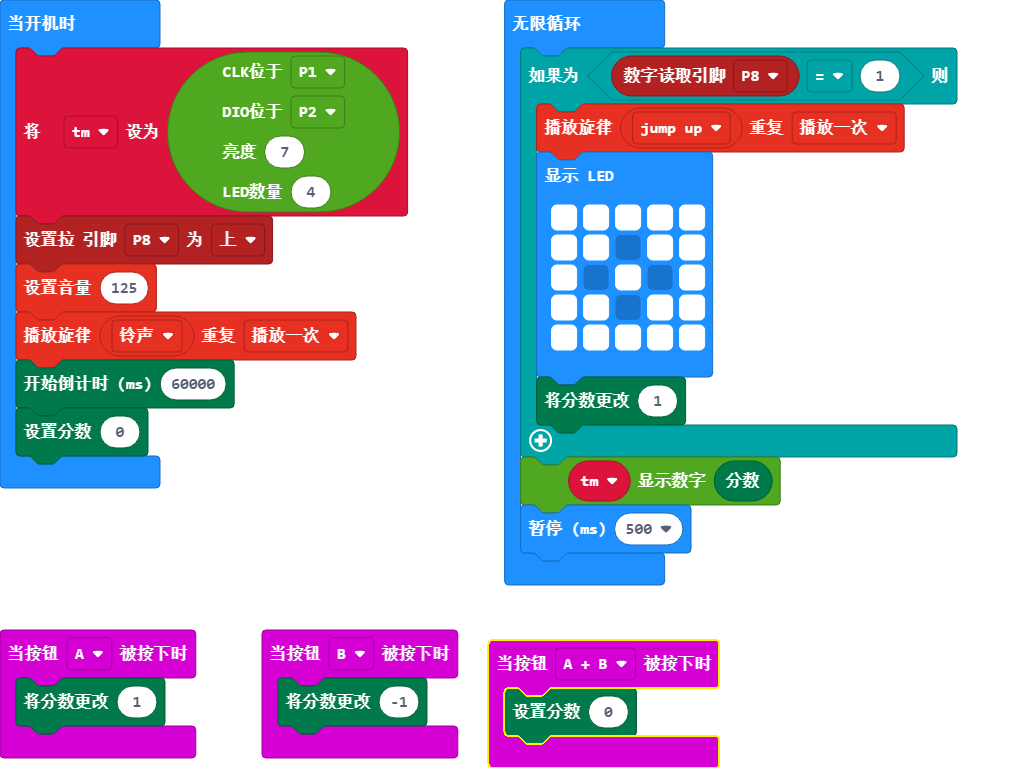
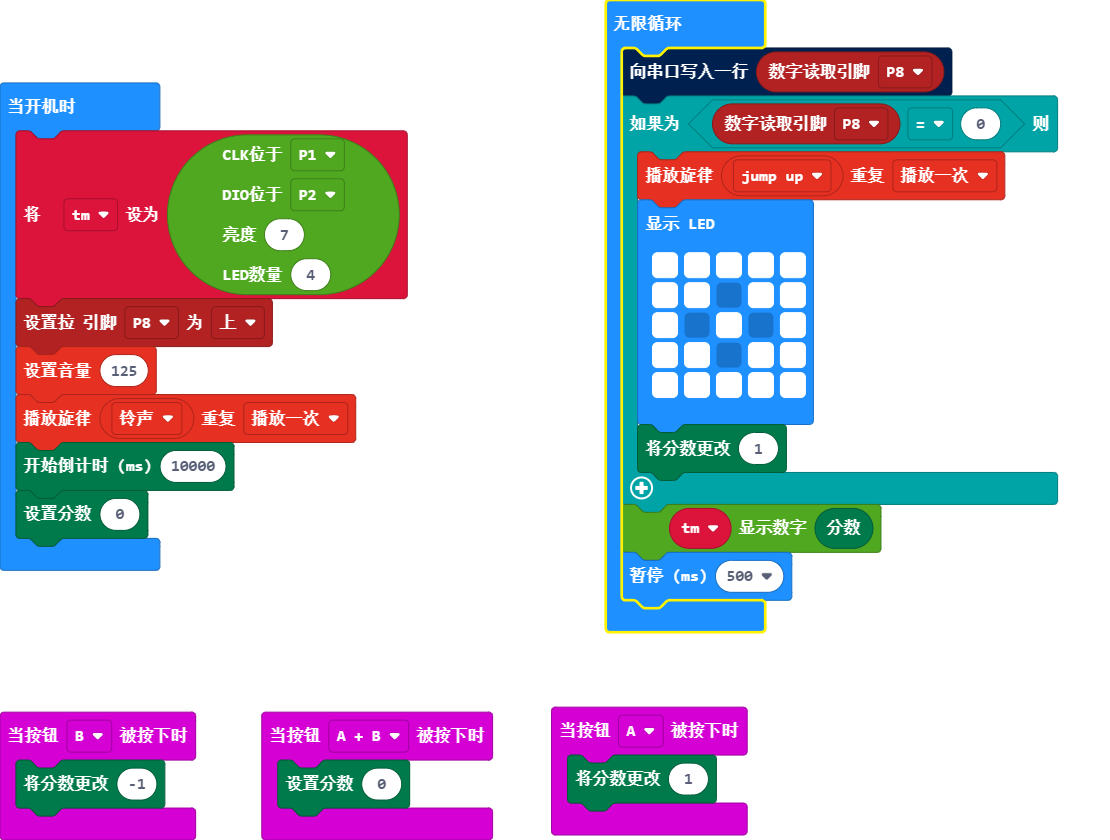
更新 main.blocks, main.ts

diff --git a/main.ts b/main.ts
@@ -16,10 +16,11 @@ DigitalPin.P2,
 pins.setPull(DigitalPin.P8, PinPullMode.PullUp)
 music.setVolume(125)
 music.startMelody(music.builtInMelody(Melodies.Ringtone), MelodyOptions.Once)
-game.startCountdown(60000)
+game.startCountdown(10000)
 game.setScore(0)
 basic.forever(function () {
-    if (pins.digitalReadPin(DigitalPin.P8) == 1) {
+    serial.writeLine("" + (pins.digitalReadPin(DigitalPin.P8)))
+    if (pins.digitalReadPin(DigitalPin.P8) == 0) {
         music.startMelody(music.builtInMelody(Melodies.JumpUp), MelodyOptions.Once)
         basic.showLeds(`
             # # # # #
